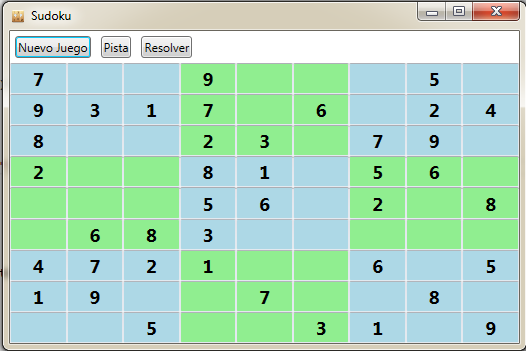
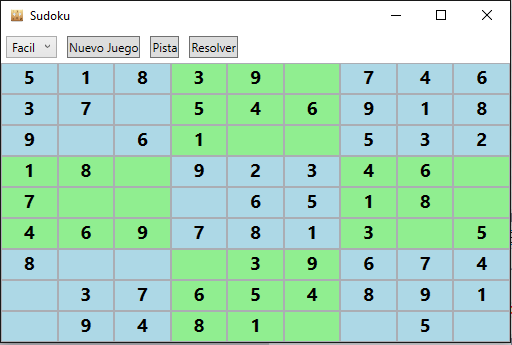
Added Difficulty

diff --git a/SudokuWPF/SudokuWPF/View/MainWindow.xaml b/SudokuWPF/SudokuWPF/View/MainWindow.xaml
@@ -12,6 +12,7 @@
             <RowDefinition/>
         </Grid.RowDefinitions>
         <StackPanel Orientation="Horizontal">
+            <ComboBox Margin="5" ItemsSource="{Binding LstDificultad}" SelectedItem="{Binding SelectedDificultad}"></ComboBox>
             <Button Margin="5" Command="{Binding ClickNuevoJuegoCommand}">Nuevo Juego</Button>
             <Button Margin="5" Command="{Binding ClickPistaCommand}">Pista</Button>
             <Button Margin="5" Command="{Binding ClickResolverCommand}">Resolver</Button>

diff --git a/SudokuWPF/SudokuWPF/ViewModel/MainViewModel.cs b/SudokuWPF/SudokuWPF/ViewModel/MainViewModel.cs
@@ -22,15 +22,26 @@ namespace SudokuWPF.ViewModel
         int[,] BoardCurrent;
         int numHoles = 40;
         bool btnResolverPulsado = false;
-
+        List<string> lstDificultad = new List<string>();
+        string selectedDificultad = DIFICULTAD_FACIL;
+        const string DIFICULTAD_FACIL = "Facil";
+        const string DIFICULTAD_INTERMEDIO = "Intermedio";
+        const string DIFICULTAD_DIFICIL = "Dificil";
 
         public MainViewModel()
         {
+            LstDificultad = new List<string>();
+            LstDificultad.Add(DIFICULTAD_FACIL);
+            LstDificultad.Add(DIFICULTAD_INTERMEDIO);
+            LstDificultad.Add(DIFICULTAD_DIFICIL);
+
             NuevoJuego();
         }
 
         private void NuevoJuego()
         {
+            numHoles = GetNumHolesByDificultad();
+
             btnResolverPulsado = false;
             SudokuGenerator sg = new SudokuGenerator();
             bool solved = false;
@@ -73,6 +84,20 @@ namespace SudokuWPF.ViewModel
             }
 
             RaisePropertyChanged("Celdas");
+        }
+
+        private int GetNumHolesByDificultad()
+        {
+            switch (SelectedDificultad)
+            {
+                case DIFICULTAD_FACIL:
+                    return 20;
+                case DIFICULTAD_INTERMEDIO:
+                    return 30;
+                case DIFICULTAD_DIFICIL:
+                    return 40;
+            }
+            return 40; 
         }
 
         private void CellVMNumberChanged(object sender, NumberChangedEventArgs e)
@@ -146,6 +171,34 @@ namespace SudokuWPF.ViewModel
             }
         }
 
+        public string SelectedDificultad
+        {
+            get
+            {
+                return selectedDificultad;
+            }
+
+            set
+            {
+                selectedDificultad = value;
+                RaisePropertyChanged("SelectedDificultad");
+            }
+        }
+
+        public List<string> LstDificultad
+        {
+            get
+            {
+                return lstDificultad;
+            }
+
+            set
+            {
+                lstDificultad = value;
+                RaisePropertyChanged("LstDificultad");
+            }
+        }
+
 
         #region ClickNuevoJuegoCommand
 
@@ -207,6 +260,8 @@ namespace SudokuWPF.ViewModel
                 return _clickResolverCommand ?? (_clickResolverCommand = new CommandHandler(() => MyActionResolver(), CanExecuteActionResolver()));
             }
         }
+
+        
 
         private bool CanExecuteActionResolver()
         {
